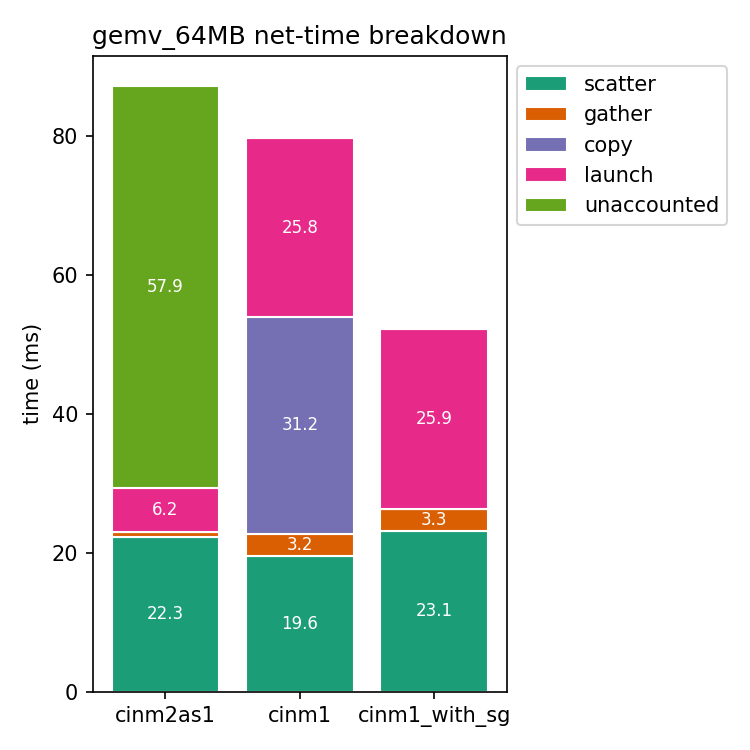
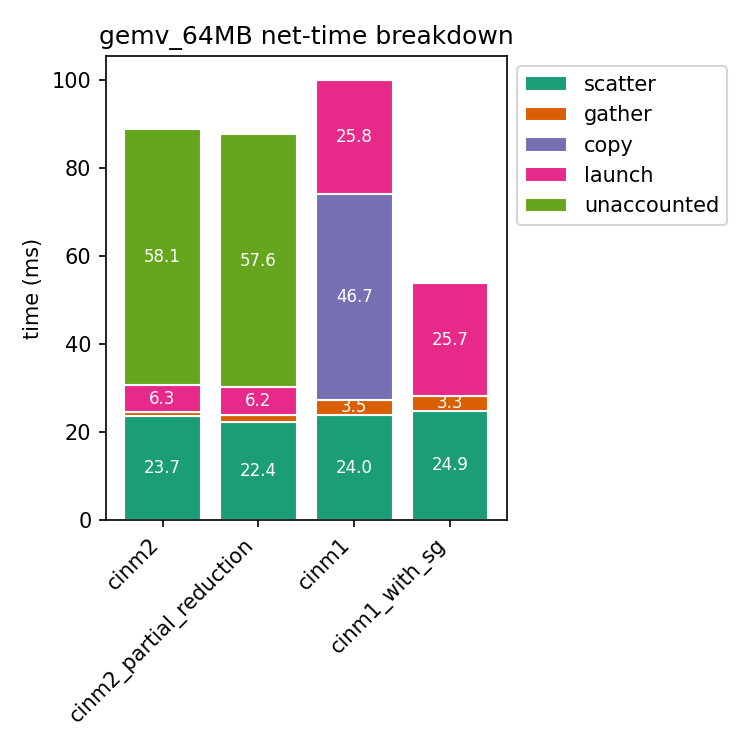
Dont generate partial reduction if not needed

diff --git a/lib/Dialect/UPMEM/Transforms/SimulationTemplates.cpp b/lib/Dialect/UPMEM/Transforms/SimulationTemplates.cpp
@@ -959,10 +959,17 @@ void upmem::generateGemv(cinm::GemvOp op, RewriterBase &rewriter,
   // staging (see scatterATile).
   // xStage: one [mramCols] slice per DPU column group (dpuCols groups).
   // yStage: one [mramRows] partial accumulator per DPU (2D DPU grid).
+  // When dpuCols == 1 there is only one partial per DPU row, so it is
+  // already the final result: instead of allocating a separate yStage and
+  // reducing it into `y` afterwards, we scatter/gather directly into a
+  // (expanded) subview of `y`, skipping the host-side reduction entirely.
+  bool needsPartialReduction = dpuCols > 1;
   Value xStage = memref::AllocOp::create(
       rewriter, loc, MemRefType::get({dpuCols, mramCols}, eltTy));
-  Value yStage = memref::AllocOp::create(
-      rewriter, loc, MemRefType::get({dpuRows, dpuCols, mramRows}, eltTy));
+  Value yStage;
+  if (needsPartialReduction)
+    yStage = memref::AllocOp::create(
+        rewriter, loc, MemRefType::get({dpuRows, dpuCols, mramRows}, eltTy));
 
   llvm::StringRef aBufSym, xBufSym, yBufSym;
   auto parentMod = op->getParentOfType<ModuleOp>();
@@ -1000,9 +1007,29 @@ void upmem::generateGemv(cinm::GemvOp op, RewriterBase &rewriter,
           ValueRange) -> SmallVector<Value> {
         Value mOff = ivs[0];
 
+        // yBuf is the buffer scattered to / gathered from the DPUs for this
+        // M tile: either the shared yStage allocation (dpuCols > 1), or a
+        // 3D view directly into `y` (dpuCols == 1, see comment above).
+        Value yBuf;
+        if (needsPartialReduction) {
+          yBuf = yStage;
+        } else {
+          Value outRows = memref::SubViewOp::create(
+              b, loc, y, ArrayRef<OpFoldResult>{mOff},
+              ArrayRef<OpFoldResult>{b.getIndexAttr(dpuRows * mramRows)},
+              ArrayRef<OpFoldResult>{b.getIndexAttr(1)});
+          yBuf = memref::ExpandShapeOp::create(
+              b, loc,
+              MemRefType::get(
+                  {dpuRows, 1, mramRows}, eltTy,
+                  StridedLayoutAttr::get(ctx, ShapedType::kDynamic,
+                                         {mramRows, mramRows, 1})),
+              outRows, ArrayRef<ReassociationIndices>{{0, 1, 2}});
+        }
+
         // Reset the running y partials to zero for this M tile.
-        linalg::FillOp::create(b, loc, neutral, yStage);
-        upmem::ScatterOp::create(b, loc, yStage, yBufSym,
+        linalg::FillOp::create(b, loc, neutral, yBuf);
+        upmem::ScatterOp::create(b, loc, yBuf, yBufSym,
                                   static_cast<uint64_t>(mramRows), yMap, dpus,
                                   /*numBlocksPerDpu=*/IntegerAttr{});
 
@@ -1025,37 +1052,40 @@ void upmem::generateGemv(cinm::GemvOp op, RewriterBase &rewriter,
               return {};
             }); // end k loop
 
-        upmem::GatherOp::create(b, loc, yStage, yBufSym,
+        upmem::GatherOp::create(b, loc, yBuf, yBufSym,
                                 static_cast<uint64_t>(mramRows), yMap, dpus,
                                 /*numBlocksPerDpu=*/IntegerAttr{});
 
-        // Reduce yStage[dpuRows, dpuCols, mramRows] over dim 1 (dpuCols)
-        // and accumulate into out[mOff .. mOff + dpuRows*mramRows).
-        Value outRows = memref::SubViewOp::create(
-            b, loc, y, ArrayRef<OpFoldResult>{mOff},
-            ArrayRef<OpFoldResult>{b.getIndexAttr(dpuRows * mramRows)},
-            ArrayRef<OpFoldResult>{b.getIndexAttr(1)});
-        Value outRows2D = memref::ExpandShapeOp::create(
-            b, loc,
-            MemRefType::get({dpuRows, mramRows}, eltTy,
-                            StridedLayoutAttr::get(ctx, ShapedType::kDynamic,
-                                                   {mramRows, 1})),
-            outRows, ArrayRef<ReassociationIndices>{{0, 1}});
-        linalg::ReduceOp::create(
-            b, loc, ValueRange{yStage}, ValueRange{outRows2D},
-            ArrayRef<int64_t>{1},
-            [&](OpBuilder &b, Location loc, ValueRange args) {
-              linalg::YieldOp::create(
-                  b, loc,
-                  arith::getReductionOp(addKind, b, loc, args[0], args[1]));
-            });
+        if (needsPartialReduction) {
+          // Reduce yStage[dpuRows, dpuCols, mramRows] over dim 1 (dpuCols)
+          // and accumulate into out[mOff .. mOff + dpuRows*mramRows).
+          Value outRows = memref::SubViewOp::create(
+              b, loc, y, ArrayRef<OpFoldResult>{mOff},
+              ArrayRef<OpFoldResult>{b.getIndexAttr(dpuRows * mramRows)},
+              ArrayRef<OpFoldResult>{b.getIndexAttr(1)});
+          Value outRows2D = memref::ExpandShapeOp::create(
+              b, loc,
+              MemRefType::get({dpuRows, mramRows}, eltTy,
+                              StridedLayoutAttr::get(
+                                  ctx, ShapedType::kDynamic, {mramRows, 1})),
+              outRows, ArrayRef<ReassociationIndices>{{0, 1}});
+          linalg::ReduceOp::create(
+              b, loc, ValueRange{yBuf}, ValueRange{outRows2D},
+              ArrayRef<int64_t>{1},
+              [&](OpBuilder &b, Location loc, ValueRange args) {
+                linalg::YieldOp::create(
+                    b, loc,
+                    arith::getReductionOp(addKind, b, loc, args[0], args[1]));
+              });
+        }
 
         return {};
       }); // end m loop
 
   rewriter.eraseOp(op);
   memref::DeallocOp::create(rewriter, loc, xStage);
-  memref::DeallocOp::create(rewriter, loc, yStage);
+  if (needsPartialReduction)
+    memref::DeallocOp::create(rewriter, loc, yStage);
   upmem::FreeDPUsOp::create(rewriter, loc, dpus);
 }
 

diff --git a/experiments/gemv_microbenchmark/dodo.py b/experiments/gemv_microbenchmark/dodo.py
@@ -43,43 +43,58 @@ ITERS = 10
 DPUS = 256
 TASKLETS = 4
 
-cinm2parms = {
-    "dpus": DPUS,
-    "tasklets": TASKLETS,
-    "wramRow": 1,
-    "wramCol": 1024,
-    "dpuCols": 1,
-    "mramRow": 4,
-    "mramCol": 1024,
-}
-# {dpus=256, tasklets=4, wramRow=1, wramCol=1024, dpuCols=1, mramRow=4096, mramCol=1024}
 CONFIGS = [
     compile_run.Config(
-        system="cinm2as1",
+        system="cinm2",
         fn_name="gemv_64MB",
-        label="foo",
-        params=cinm2parms,
+        label="default",
+        params={
+            "dpus": DPUS,
+            "tasklets": TASKLETS,
+            "wramRow": 1,
+            "wramCol": 1024,
+            "dpuCols": 1,
+            "mramRow": 4,
+            "mramCol": 1024,
+        },
         fn_module="/home/clement.fournier/Work/cinm-mlir/experiments/cinm1comparison/data/prim_gemv/_split/gemv_64MB.mlir",
         prim="gemv",
-        lower=cinmopt.eval_solution_lowerer(params=cinm2parms),
+        lower=cinmopt.eval_solution_lowerer(),
+    ),
+    compile_run.Config(
+        system="cinm2_partial_reduction",
+        fn_name="gemv_64MB",
+        label="default",
+        params={
+            "dpus": DPUS,
+            "tasklets": TASKLETS,
+            "wramRow": 1,
+            "wramCol": 1024,
+            "dpuCols": 2,
+            "mramRow": 4,
+            "mramCol": 1024,
+        },
+        fn_module="/home/clement.fournier/Work/cinm-mlir/experiments/cinm1comparison/data/prim_gemv/_split/gemv_64MB.mlir",
+        prim="gemv",
+        lower=cinmopt.eval_solution_lowerer(),
     ),
     compile_run.Config(
         system="cinm1",
         fn_name="gemv_64MB",
-        label="foo",
+        label="default",
         params={"dpus": DPUS, "tasklets": TASKLETS},
         fn_module="/home/clement.fournier/Work/cinm-mlir/experiments/cinm1comparison/data/prim_gemv/_split/gemv_64MB.mlir",
         prim="gemv",
-        lower=cinm1.lowerer(dpus=DPUS, tasklets=TASKLETS),
+        lower=cinm1.lowerer(),
     ),
     compile_run.Config(
         system="cinm1_with_sg",
         fn_name="gemv_64MB",
-        label="foo",
+        label="default",
         params={"dpus": DPUS, "tasklets": TASKLETS},
         fn_module="/home/clement.fournier/Work/cinm-mlir/experiments/cinm1comparison/data/prim_gemv/_split/gemv_64MB.mlir",
         prim="gemv",
-        lower=cinm1.lowerer(dpus=DPUS, tasklets=TASKLETS, use_upmem_scatter_api=True),
+        lower=cinm1.lowerer(use_upmem_scatter_api=True),
     ),
 ]
 
@@ -164,12 +179,18 @@ def task_plot():
         import matplotlib.pyplot as plt
 
         systems = list(breakdowns.keys())
-        categories = sorted({cat for s in systems for cat in breakdowns[s].keys()}, key=measurements.net_breakdown_sort_ix)
+        categories = sorted(
+            {cat for s in systems for cat in breakdowns[s].keys()},
+            key=measurements.net_breakdown_sort_ix,
+        )
         # Color by each category's fixed, global sort index (not its position
         # in this plot's local `categories` list) so the same category name
         # always gets the same color across both plots, even though the flat
         # and by-kind plots don't show the same set of categories.
-        colors = [plt.get_cmap("Dark2")(measurements.net_breakdown_color_ix(cat)) for cat in categories]
+        colors = [
+            plt.get_cmap("Dark2")(measurements.net_breakdown_color_ix(cat))
+            for cat in categories
+        ]
 
         fig, ax = plt.subplots(figsize=(5, 5))
         bottoms = [0.0] * len(systems)
@@ -201,6 +222,8 @@ def task_plot():
         ax.set_ylabel("time (ms)")
         ax.set_title("gemv_64MB net-time breakdown")
         ax.legend(loc="upper left", bbox_to_anchor=(1.0, 1.0))
+        ax.set_xticks(range(len(systems)))
+        ax.set_xticklabels(systems, rotation=45, ha="right")
         fig.tight_layout()
         fig.savefig(out_path, dpi=150)
         print(f"wrote {out_path}")
@@ -214,8 +237,5 @@ def task_plot():
         ],
         "file_dep": [c.dir(DATA_ROOT) / "bench.done" for c in CONFIGS],
         "targets": [out_path, out_path_by_kind],
-        "actions": [
-          (action, [out_path, False]),
-          (action, [out_path_by_kind, True])
-        ],
+        "actions": [(action, [out_path, False]), (action, [out_path_by_kind, True])],
     }

diff --git a/experiments/cinm1comparison/dodo.py b/experiments/cinm1comparison/dodo.py
@@ -524,7 +524,7 @@ def task_cinm2_search():
                         params={},
                         fn_module=fn_module,
                         prim=op,
-                        lower=None,  # lower also gets replaced
+                        lower=cinmopt.eval_solution_lowerer(cinm_opt=CINM_OPT),
                     )
                     pool_csv = group.results_dir / f"infer_{fn_name}" / f"seed_{seed}" / "pool.csv"
                     marker = PATHS.compile_marker(prim, config)
@@ -581,7 +581,6 @@ def _compile_best(
     config.params = pools.best_in_pool(pool_csv)
     if not config.params:
         return False
-    config.lower = cinmopt.eval_solution_lowerer(config.params, cinm_opt=CINM_OPT)
     return _compile_one(config, compile_root, marker)
 
 
@@ -627,7 +626,7 @@ def task_compile_cinm1():
             params={"dpus": dpus, "tasklets": tasklets},
             fn_module=fn_module,
             prim=op,
-            lower=cinm1.lowerer(dpus, tasklets, cinm_opt=CINM_OPT),
+            lower=cinm1.lowerer(cinm_opt=CINM_OPT),
         )
         marker = PATHS.compile_marker(prim, config)
         yield {
@@ -686,7 +685,7 @@ def _discover_cinm2_configs(
                 params=params,
                 fn_module=fn_module,
                 prim=op,
-                lower=cinmopt.eval_solution_lowerer(params, cinm_opt=CINM_OPT),
+                lower=cinmopt.eval_solution_lowerer(cinm_opt=CINM_OPT),
             )
         )
     return configs
@@ -716,7 +715,7 @@ def _discover_configs(prim: str) -> list[compile_run.Config]:
                     params={"dpus": dpus, "tasklets": tasklets},
                     fn_module=fn_module,
                     prim=op,
-                    lower=cinm1.lowerer(dpus, tasklets, cinm_opt=CINM_OPT),
+                    lower=cinm1.lowerer(cinm_opt=CINM_OPT),
                 )
             )
 

diff --git a/experiments/cinm_experiments/cinmopt.py b/experiments/cinm_experiments/cinmopt.py
@@ -126,13 +126,13 @@ def eval_solution(src: pathlib.Path, params: dict, *, out_file: pathlib.Path,
                 cinm_opt=cinm_opt, log_file=log_file, nice=nice)
 
 
-def eval_solution_lowerer(params: dict, *, cinm_opt: pathlib.Path = DEFAULT_CINM_OPT):
+def eval_solution_lowerer(*, cinm_opt: pathlib.Path = DEFAULT_CINM_OPT):
     """A (fn_module, out_file, log_file) -> CompletedProcess callable, for use
     as compile_run.Config.lower -- compiles CINM 2.0's chosen `params` with no
     further search."""
 
     def _lower(fn_module: pathlib.Path, out_file: pathlib.Path,
-               log_file: pathlib.Path) -> subprocess.CompletedProcess:
+               log_file: pathlib.Path, **params) -> subprocess.CompletedProcess:
         return eval_solution(fn_module, params, out_file=out_file,
                               cinm_opt=cinm_opt, log_file=log_file)
 

diff --git a/experiments/cinm_experiments/cinm1.py b/experiments/cinm_experiments/cinm1.py
@@ -209,14 +209,19 @@ def compile_cinm1(
 
 
 def lowerer(
-    dpus: int, tasklets: int, *, cinm_opt: pathlib.Path = DEFAULT_CINM_OPT, **kwargs
+    *, cinm_opt: pathlib.Path = DEFAULT_CINM_OPT, **kwargs
 ):
     """A (fn_module, out_file, log_file) -> CompletedProcess callable, for use
     as compile_run.Config.lower -- compiles CINM 1.0's program for this fixed
     (dpus, tasklets) working group."""
 
     def _lower(
-        fn_module: pathlib.Path, out_file: pathlib.Path, log_file: pathlib.Path
+        fn_module: pathlib.Path, 
+        out_file: pathlib.Path, log_file: pathlib.Path,
+        *,
+        dpus: int,
+        tasklets: int,
+        **parms
     ) -> subprocess.CompletedProcess:
         return compile_cinm1(
             fn_module,

diff --git a/experiments/cinm_experiments/compile_run.py b/experiments/cinm_experiments/compile_run.py
@@ -64,7 +64,7 @@ def compile_config(config: Config, *, compile_root: pathlib.Path) -> CompiledCon
                           "label": config.label, **config.params})
 
     lowered = config_dir / "lowered.mlir"
-    r = config.lower(config.fn_module, lowered, config_dir / "cinm-opt.log")
+    r = config.lower(config.fn_module, lowered, config_dir / "cinm-opt.log", **config.params)
     if r.returncode != 0:
         return CompiledConfig(config, config_dir, False,
                                f"cinm-opt failed, see {config_dir}/cinm-opt.log")
